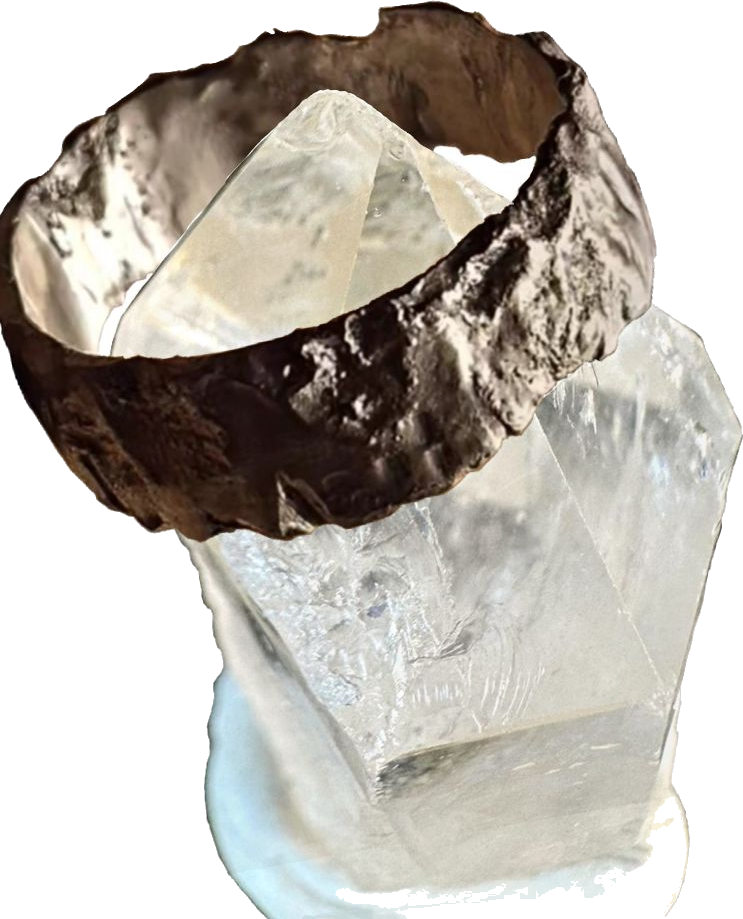
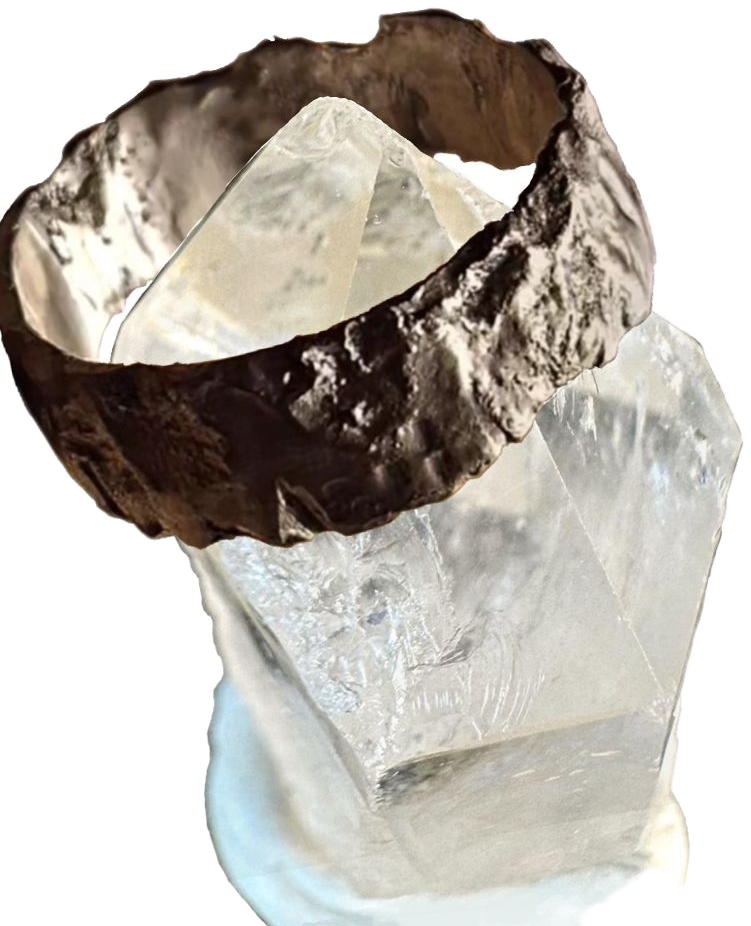
Freistellung des Kristall-Vorhang-Bilds glätten (runder Sockel statt zerrupfter Kante)
Nutzt jetzt eine morphologische Glättung der Alpha-Maske statt reinem
Fuzzy-Floodfill, damit der weiche Farbverlauf am Kristallfuß nicht in
einzelne Fransen zerfällt, sondern eine saubere Rundung ergibt.

diff --git a/css/style.css b/css/style.css
@@ -11,14 +11,14 @@
   --curtain-green: #45ad4a;      /* dieselben Töne wie im Vorhang-Effekt */
   --curtain-green-light: #5bcb60;
 
-  /* Durchgehender Seitenhintergrund — dieselben Farben wie der Vorhang
-     (hellgrün → grün → dunkelgrün), der helle Bereich oben ist bewusst
-     eng gehalten (~18%), damit er ungefähr nur den Hero abdeckt; alles
-     darunter ist wieder das dunkle Grün des restlichen Dark Themes. */
+  /* Durchgehender Seitenhintergrund: Silber (Header) → Grün → dunkelgrün.
+     Der grüne Übergang oben ist bewusst eng gehalten (~10%), damit er
+     ungefähr nur den Hero abdeckt; alles darunter ist wieder das dunkle
+     Grün des restlichen Dark Themes. */
   --page-gradient: linear-gradient(
     180deg,
-    var(--curtain-green-light) 0%,
-    var(--curtain-green) 22%,
+    var(--silver-header) 0%,
+    var(--curtain-green) 10%,
     var(--green-900) 48%,
     var(--green-900) 100%
   );
@@ -824,7 +824,7 @@ html.curtain-lock body { overflow: hidden; height: 100%; }
   top: 46%;
   left: 50%;
   width: min(62vmin, 460px);
-  aspect-ratio: 743 / 919; /* Format des Kristall-Sockel-Fotos */
+  aspect-ratio: 751 / 926; /* Format des Kristall-Sockel-Fotos */
   z-index: 2;
   opacity: 0;
   will-change: transform, opacity;
